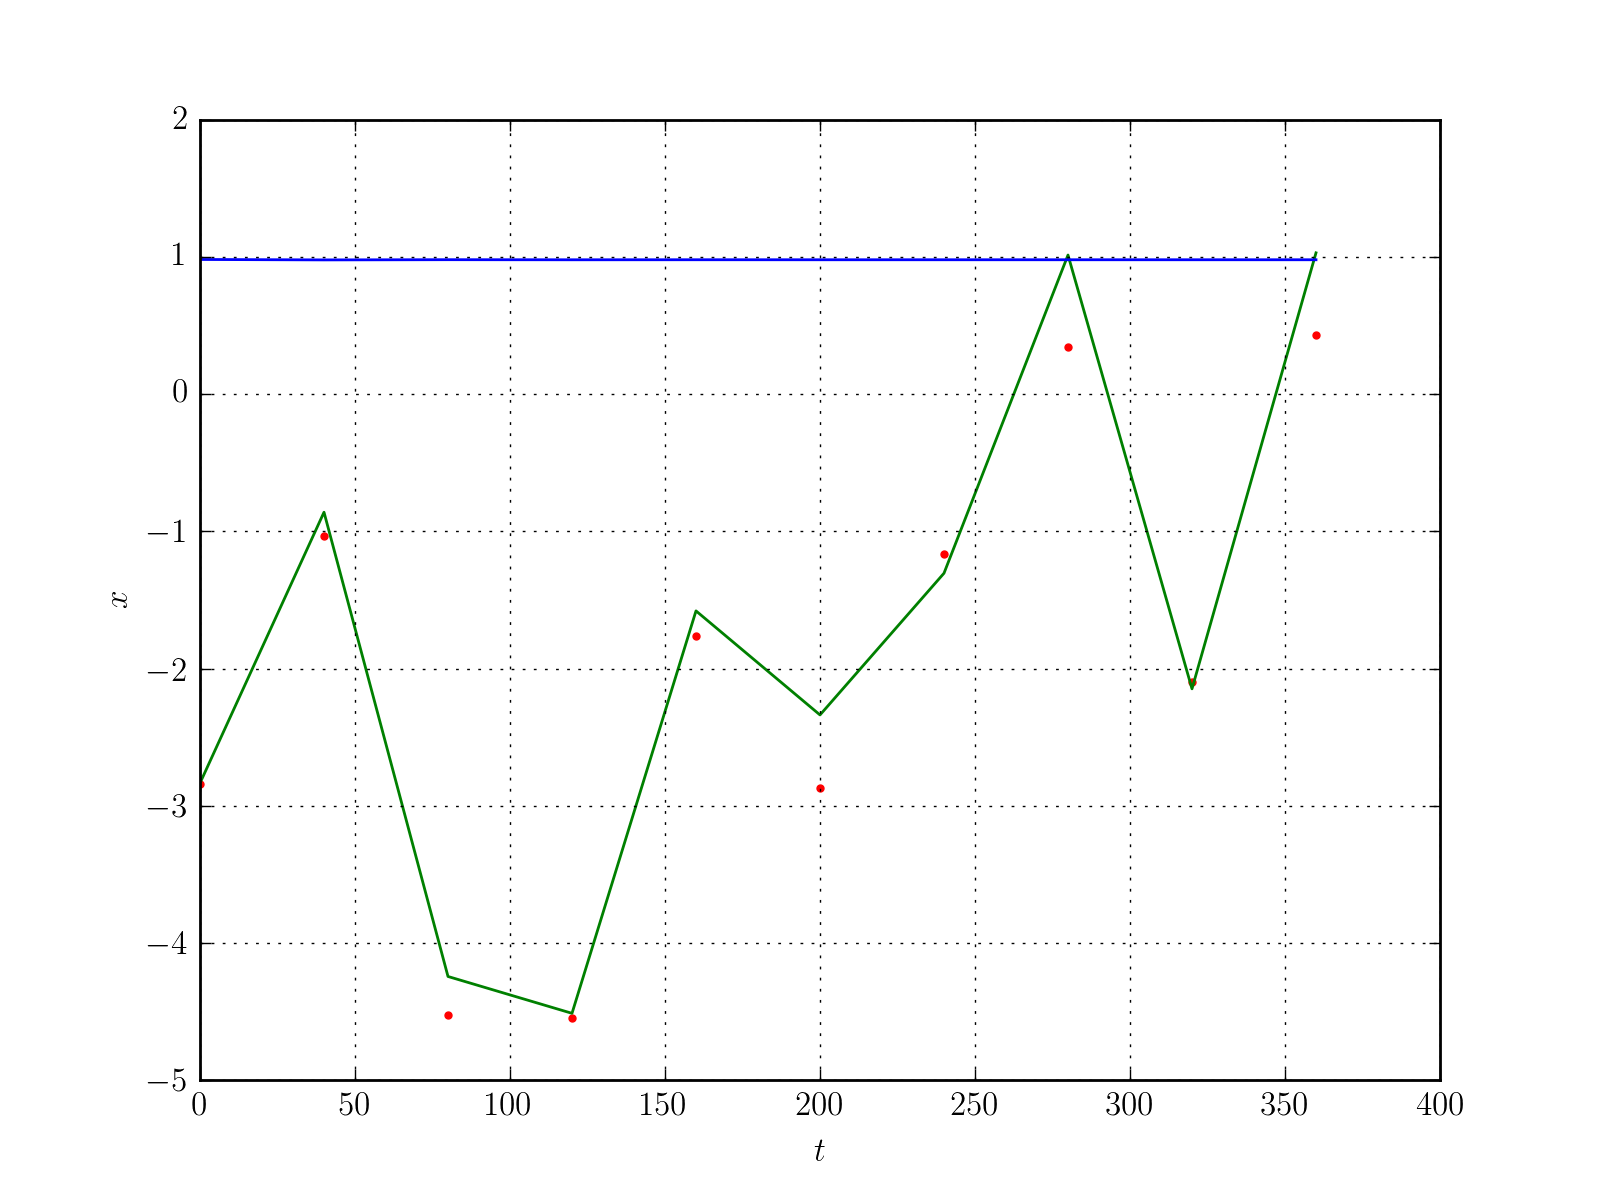
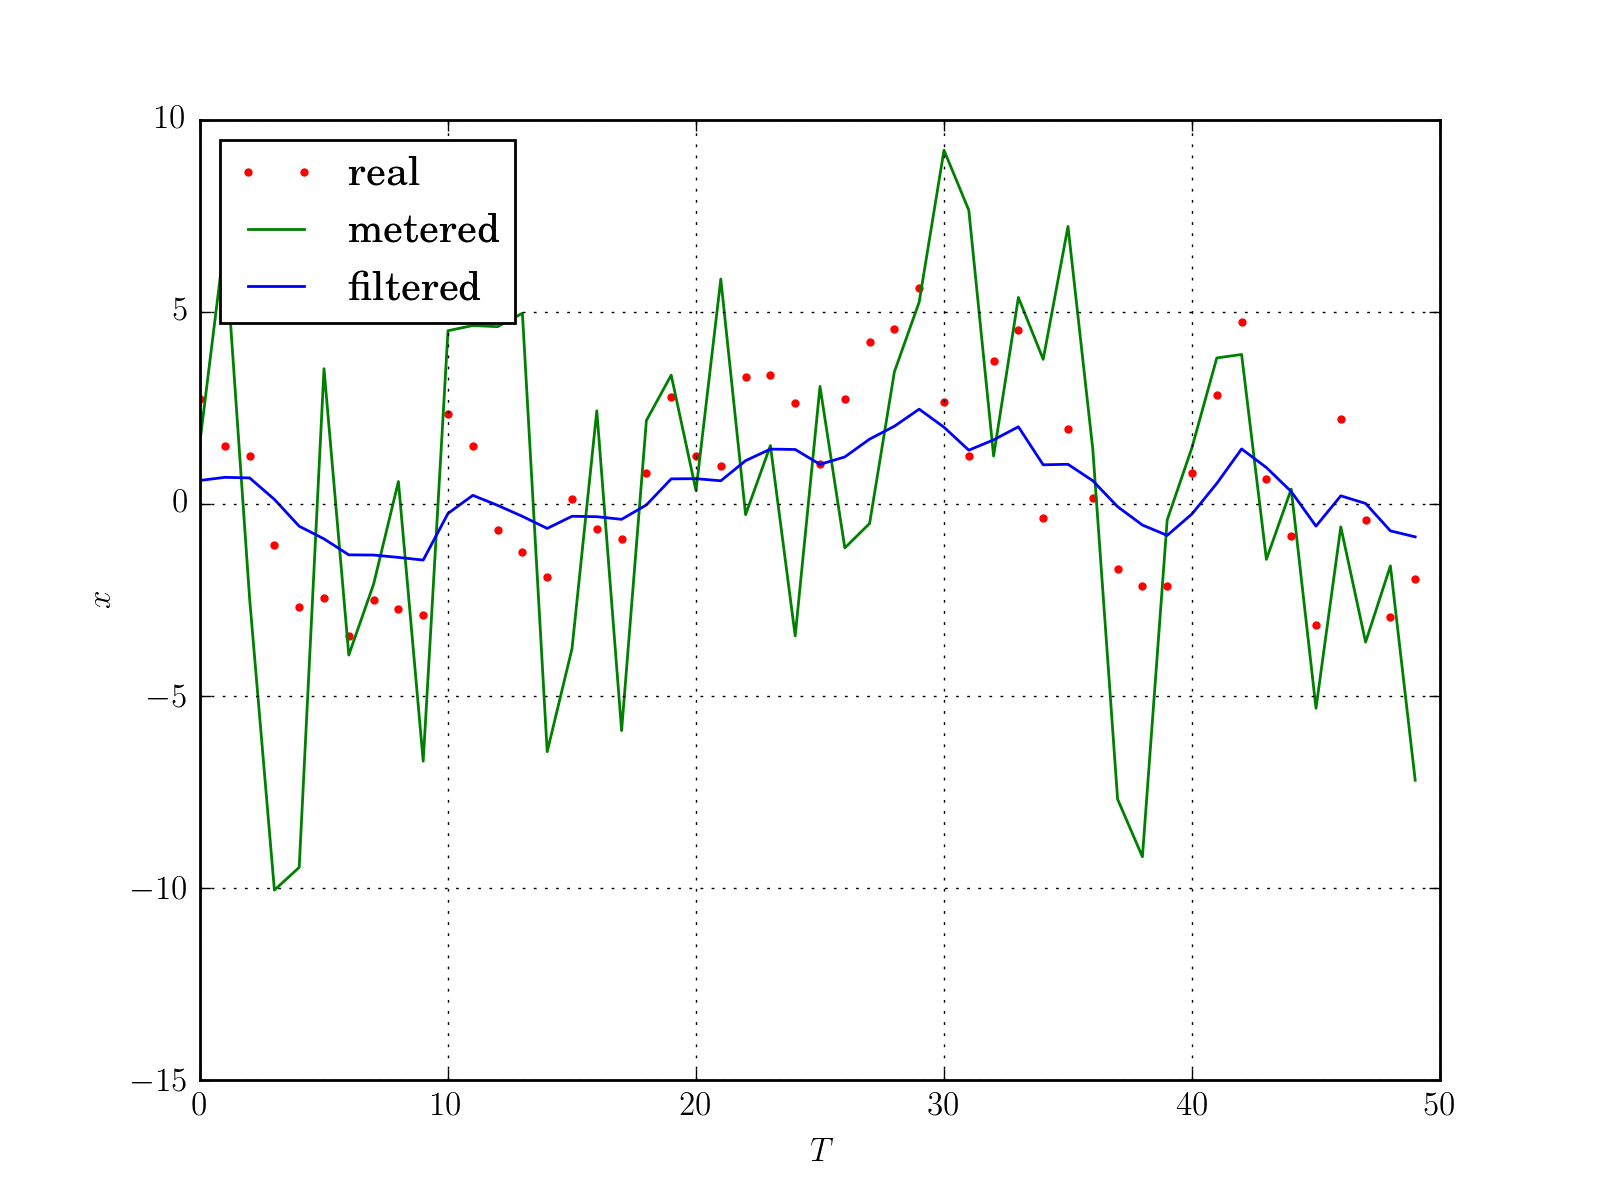
OTOS:lab_3:completed

diff --git a/disciplines/OTOS/lab_2-3/lab.py b/disciplines/OTOS/lab_2-3/lab.py
@@ -19,58 +19,65 @@ def model(fi, avg, disp, num_iter):
         cur_val = new_val
         yield new_val
 
-def meter(val, transform, disp):
-    return transform*val + random.gauss(0, math.sqrt(disp))
+def meter(val, hi, disp):
+    return hi*val + random.gauss(0, math.sqrt(disp))
 
-def filter_kalman(vals, model_fi, model_avg, model_disp, meter_transform, meter_disp):
-    result = []
-    est_filtered = model_avg
-    disp_filtered = model_disp
-    for val in vals:
-        est_extrapolated = model_fi * est_filtered
-        disp_extrapolated = model_disp + model_fi*disp_filtered*model_fi
-        gain = (disp_extrapolated*meter_transform) / (meter_transform*disp_extrapolated*meter_transform + meter_disp)
-        print("gain:", gain)
-        est_filtered = est_extrapolated + gain*(val - meter_transform*est_extrapolated)
-        disp_filtered = disp_extrapolated - gain*meter_transform*disp_filtered
-        result.append(gain)
-    return result
+class FilterKalman:
+    def __init__(self, model_fi, model_avg, model_disp, meter_hi, meter_disp):
+        self.model_fi = model_fi
+        self.model_avg = model_avg
+        self.model_disp = model_disp
+        self.meter_hi = meter_hi
+        self.meter_disp = meter_disp
+        self.est_filtered = model_avg
+        self.disp_filtered = model_disp
 
-NUM_ITER = 10
+    def filter(self, val):
+        est_extrapolated = self.model_fi * self.est_filtered
+        disp_extrapolated = self.model_disp + self.model_fi*self.disp_filtered*self.model_fi
+        gain = disp_extrapolated * self.meter_hi
+        gain /= self.meter_hi*disp_extrapolated*self.meter_hi + self.meter_disp
+        self.est_filtered = est_extrapolated + gain*(val - self.meter_hi*est_extrapolated)
+        self.disp_filtered = disp_extrapolated - gain*self.meter_hi*disp_extrapolated
+        return self.est_filtered
+
+NUM_ITER = 50
 # model parameters
 MODEL_AVG = 0
 MODEL_SIGMA2 = 8
 MODEL_ALPHA = 0.008
 MODEL_PERIOD = 40
 # meter parameters
-METER_TRANSFORM = 1
-METER_DISP = 0.1
+METER_HI = 1
+METER_DISP = 20
 
 MODEL_FI = math.exp(-MODEL_ALPHA*MODEL_PERIOD)
 MODEL_DISP = MODEL_SIGMA2*(1-math.exp(-2*MODEL_ALPHA*MODEL_PERIOD))
 
 vals_t = []
-vals_x = []
-vals_m = []
-for i,val_x in enumerate(model(MODEL_FI, MODEL_AVG, MODEL_DISP, NUM_ITER)):
-    vals_t.append(i*MODEL_PERIOD)
-    vals_x.append(val_x)
-    vals_m.append(meter(val_x, METER_TRANSFORM, METER_DISP))
+vals_model = []
+vals_meter = []
+vals_filter = []
+kalman = FilterKalman(MODEL_FI, MODEL_AVG, MODEL_DISP, METER_HI, METER_DISP)
+for i,val_model in enumerate(model(MODEL_FI, MODEL_AVG, MODEL_DISP, NUM_ITER)):
+    vals_t.append(i)
+    vals_model.append(val_model)
+    vals_meter.append(meter(val_model, METER_HI, METER_DISP))
+    vals_filter.append(kalman.filter(val_model))
 
-vals_fm = filter_kalman(vals_m,
-                        MODEL_FI, MODEL_AVG, MODEL_DISP,
-                        METER_TRANSFORM, METER_DISP)
-
-plt.plot(vals_t, vals_x,
+plt.plot(vals_t, vals_model,
          color='r', linestyle=' ',
-         marker='.', markersize=5)
-plt.plot(vals_t, vals_m,
-         color='g', linestyle='-')
-plt.plot(vals_t, vals_fm,
-         color='b', linestyle='-')
-
+         marker='.', markersize=5,
+         label='real')
+plt.plot(vals_t, vals_meter,
+         color='g', linestyle='-',
+         label='metered')
+plt.plot(vals_t, vals_filter,
+         color='b', linestyle='-',
+         label='filtered')
 
 plt.grid(True)
-plt.xlabel('$ t $')
+plt.xlabel('$ T $')
 plt.ylabel('$ x $')
+plt.legend(loc=2)
 plt.savefig('plot.png', dpi=200)
